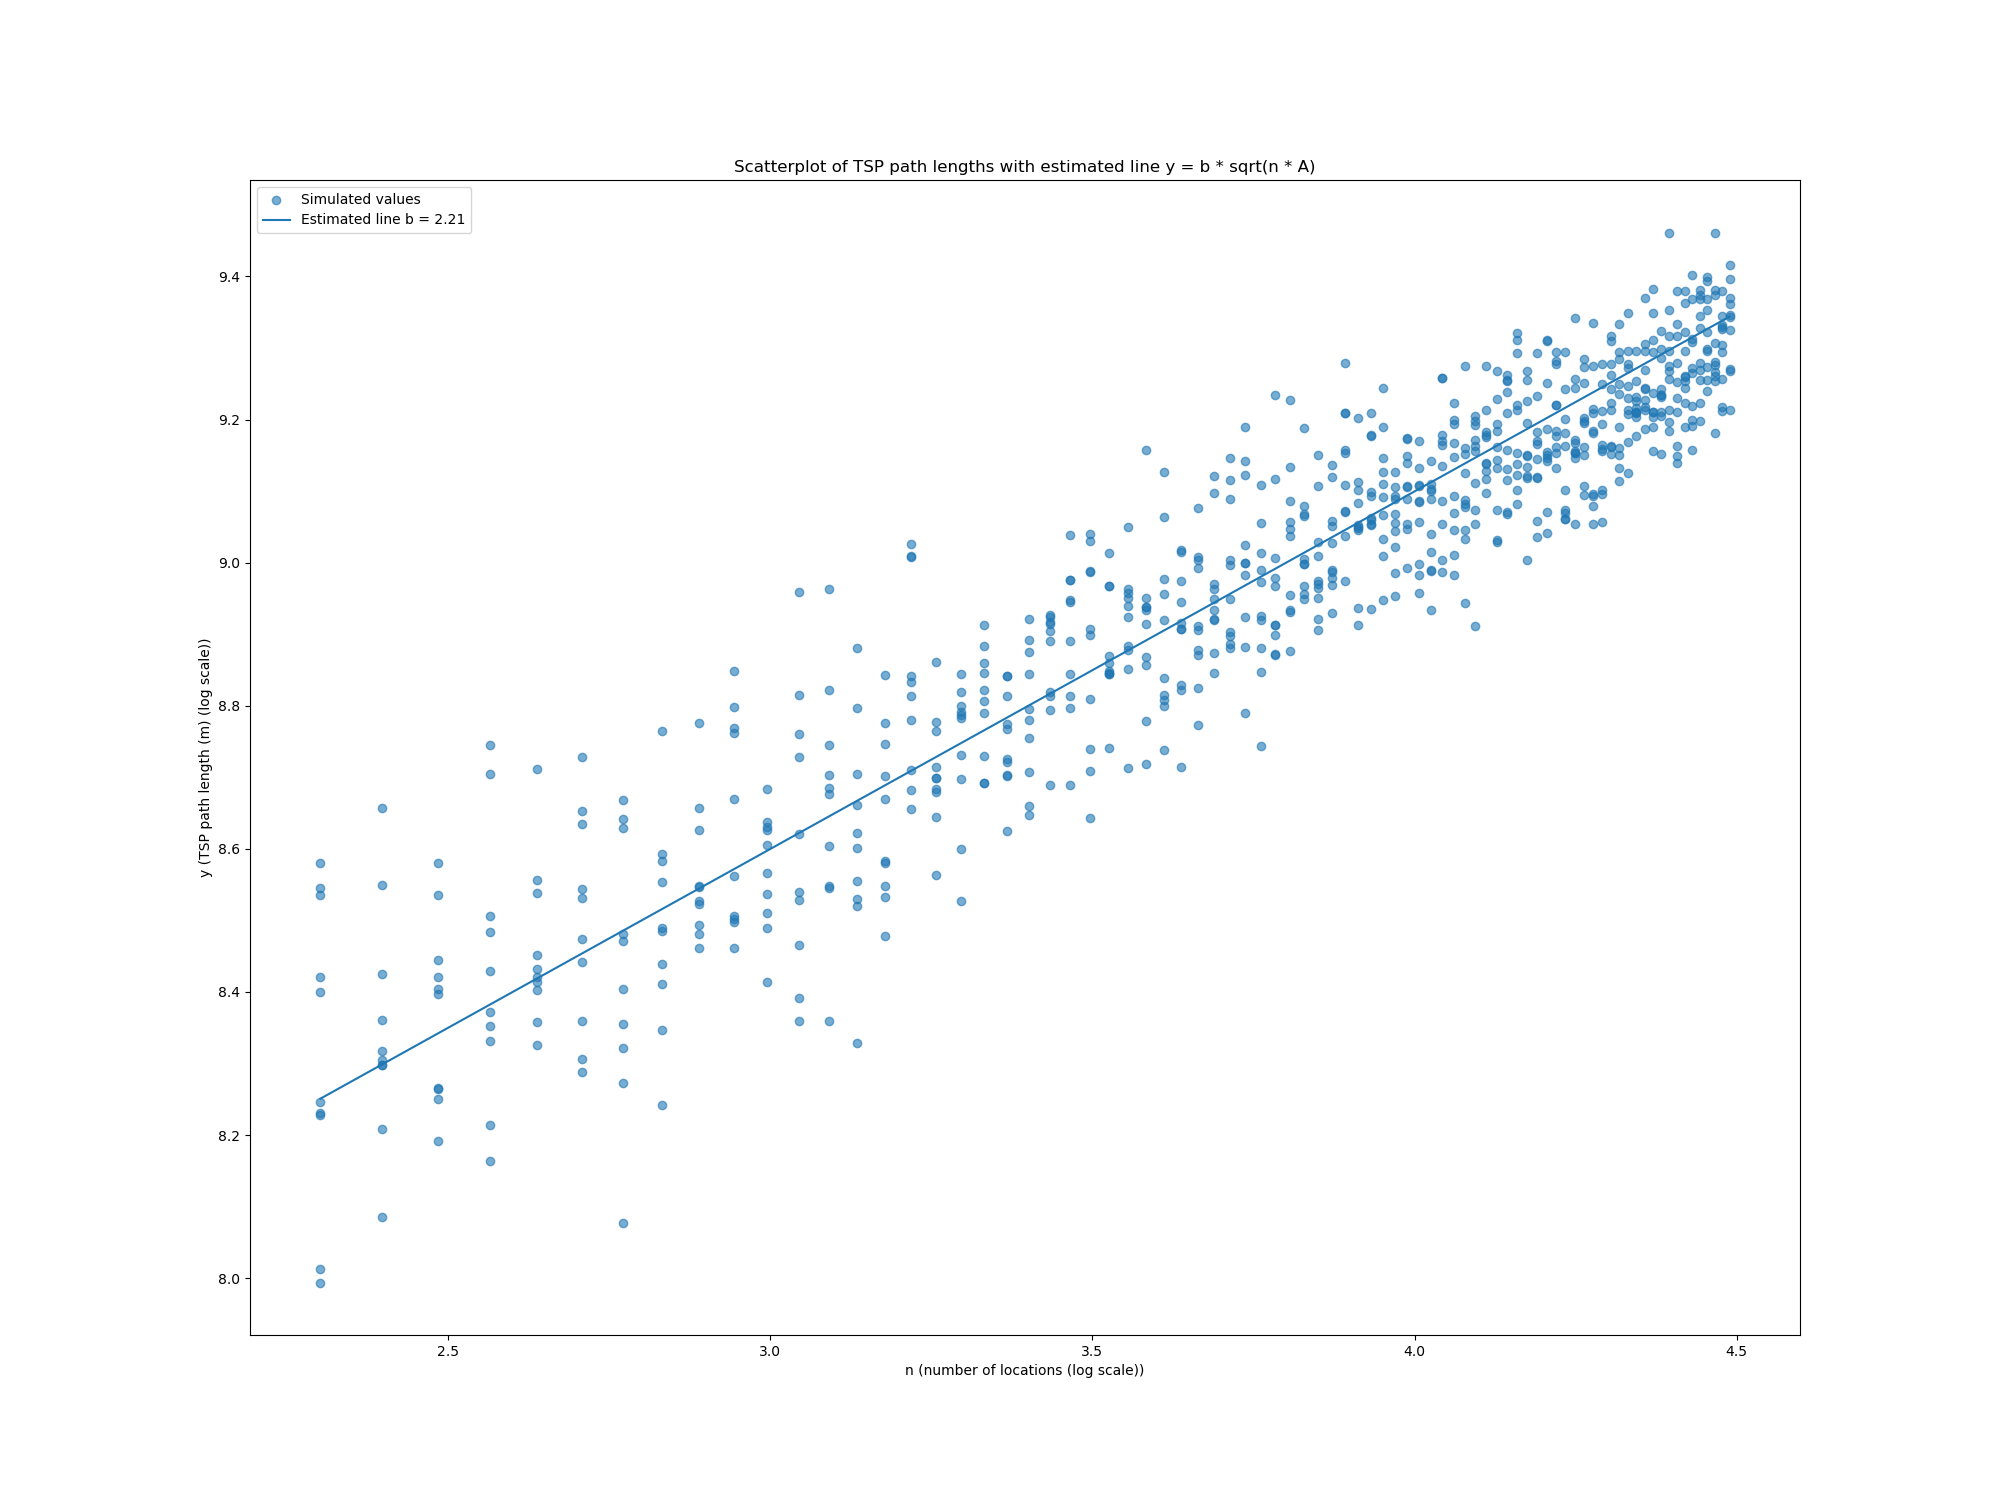
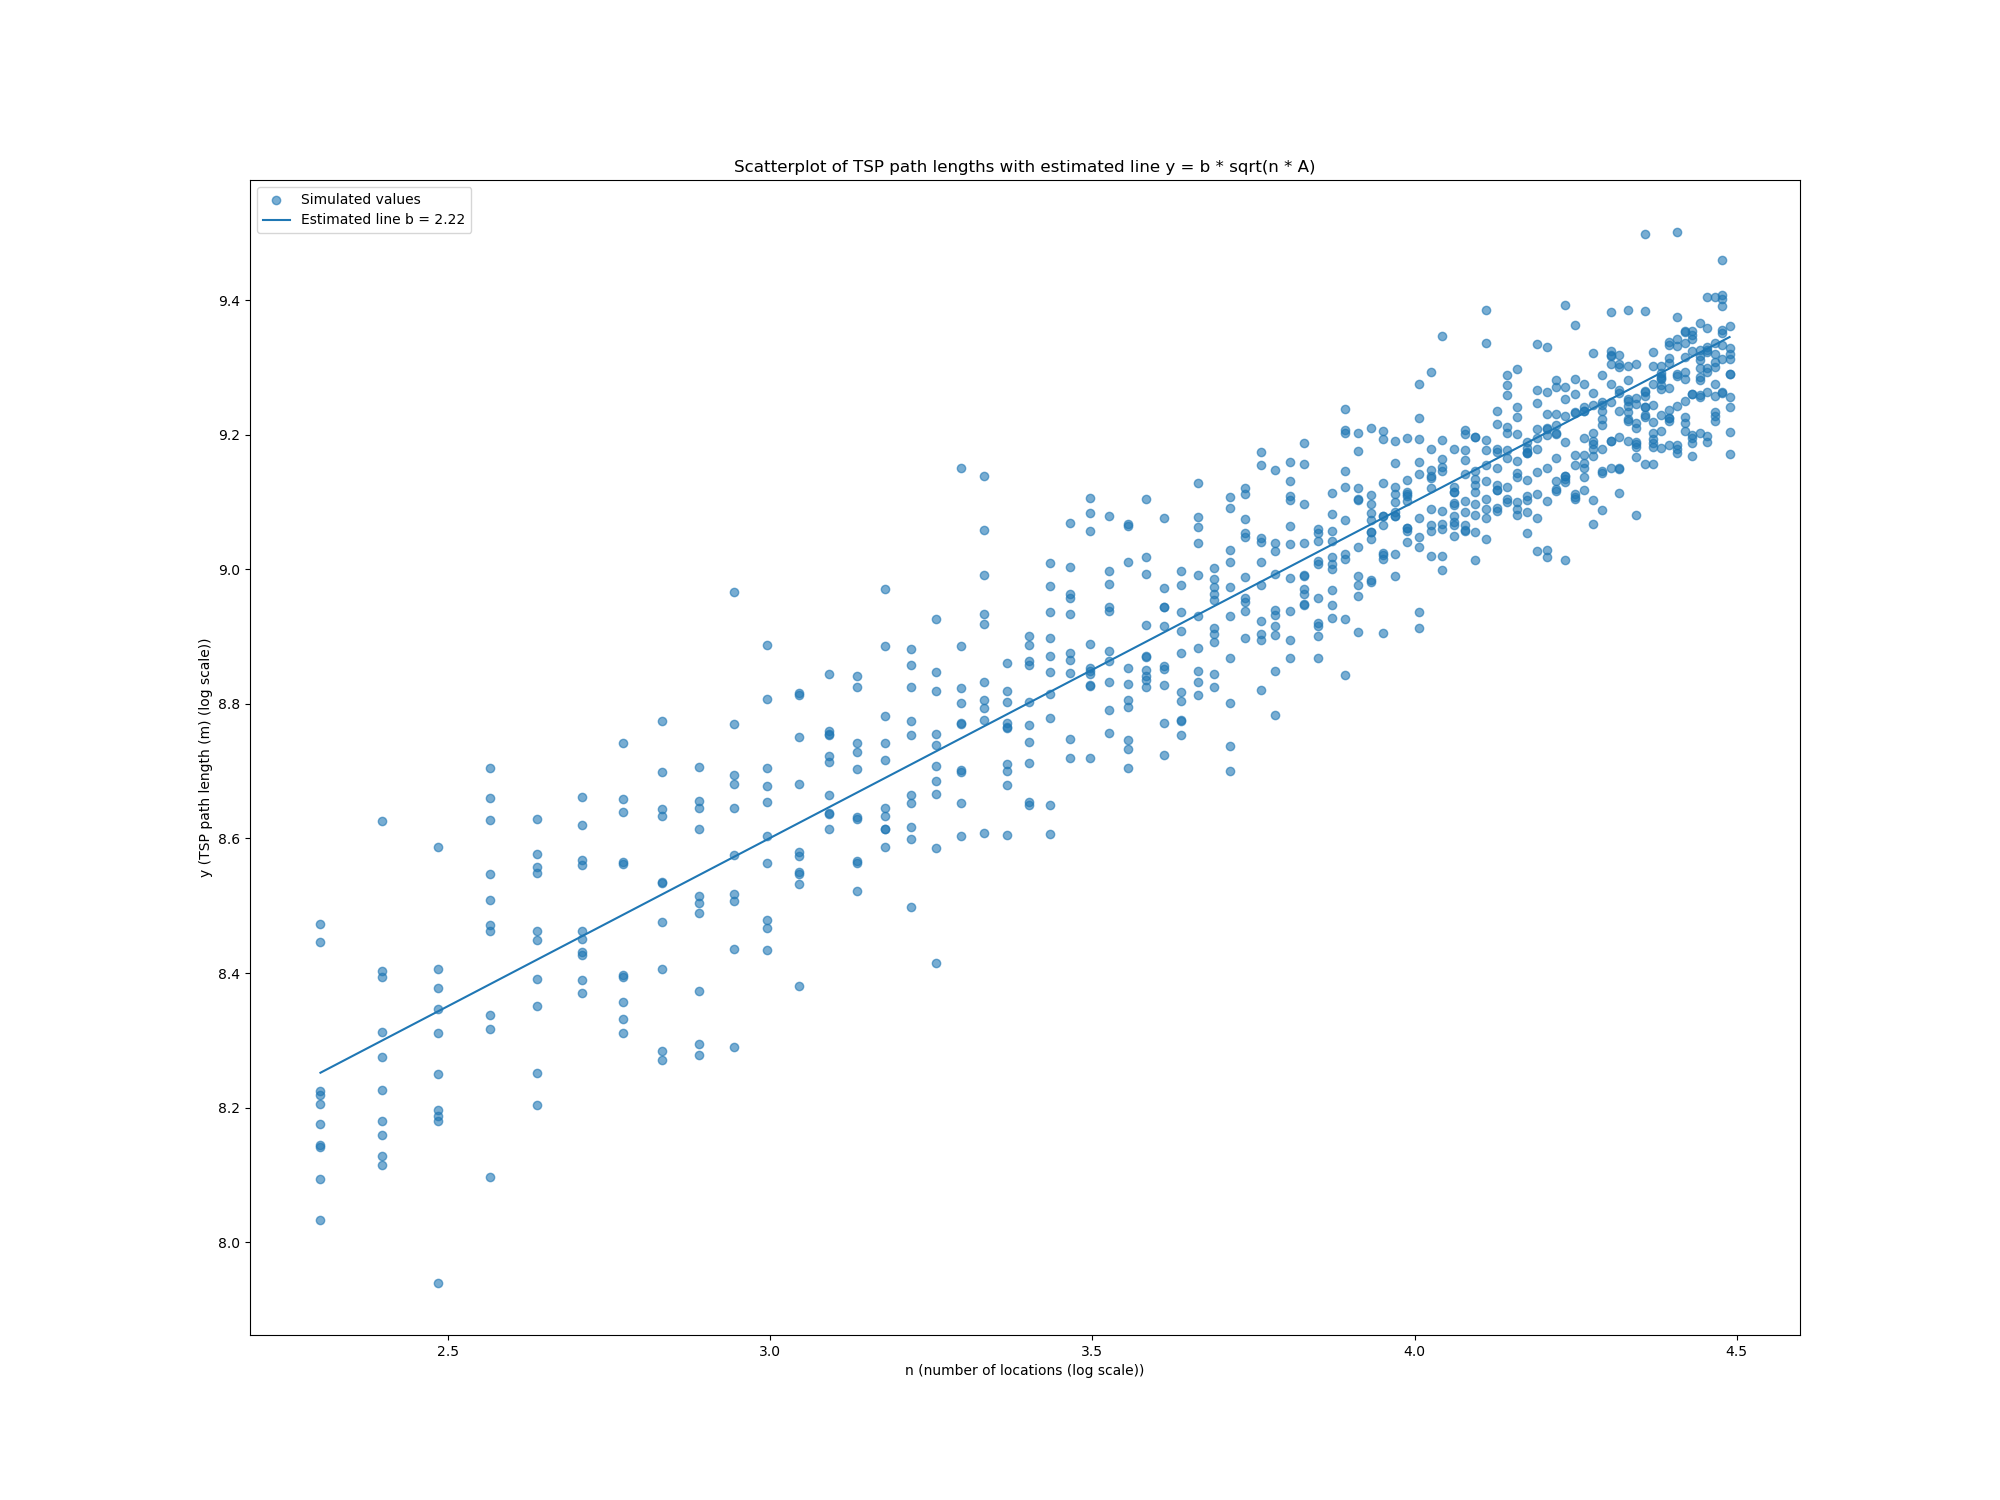
work in tex

diff --git a/project/main.py b/project/main.py
@@ -97,18 +97,17 @@ for DB, neighborhoods in areas.items():
         print(f"beta for {DB} {neighborhood} is: {b}")
         print(f"MAE for {DB} {neighborhood} is: {MAE}")
 
-with open("beta_values.org", "w") as f:
-    f.write("#+LATEX: \\begin{table}[htbp]\n")
-    f.write("#+LATEX: \\centering\n")
-    f.write("#+CAPTION: Empirical estimates for $\\beta$, for the selected areas.\n")
-    f.write("#+LABEL: tab:results\n")
-    f.write("| Province      | Neighborhood         | Beta      | MAE      |\n")
-    f.write("|---------------+----------------------+-----------+----------|\n")
+with open("beta_values.tex", "w") as f:
+    f.write("\\begin{tabular}{llcc}\n")
+    f.write("\\toprule\n")
+    f.write("Province & Neighborhood & $\\beta$ & MAE \\\\\n")
+    f.write("\\midrule\n")
 
     for key, values in final_results.items():
         db, neighborhood = key.split("-", 1)
         neighborhood = neighborhood.replace("_", " ")
         db = db.replace("_", " ")
-        f.write(
-            f"| {db:<13} | {neighborhood:<20} | {values[0]:.4f} | {values[1]:.4f} |\n"
-        )
+        f.write(f"{db} & {neighborhood} & {values[0]:.4f} & {values[1]:.4f} \\\\\n")
+
+    f.write("\\bottomrule\n")
+    f.write("\\end{tabular}\n")

diff --git a/project/run_simulation.py b/project/run_simulation.py
@@ -26,7 +26,7 @@ def run_simulation(DB, neighborhood):
     print(
         f"Graph has {len(graph.vs)} vertices and {len(graph.es)} edges. It contains {len(graph.components())} component(s)."
     )
-    create_tsps(graph, 10, range(10, 90, 1), 100, "Any", f"tsps_{DB}_{neighborhood}")
+    create_tsps(graph, 50, range(20, 90, 1), 100, "Any", f"tsps_{DB}_{neighborhood}")
     parrallel_solve_tsps(19, f"tsps_{DB}_{neighborhood}")
     tours, distances = read_tours(f"tsps_{DB}_{neighborhood}")
     area = get_area(buildings)

diff --git a/report/thesis.tex b/report/thesis.tex
@@ -206,4 +206,10 @@ much more effective. It is able to find optimal solutions to large instances in 
 \bibliography{literature}
 \bibliographystyle{rug-econometrics}
 \section{Appendix}
+\begin{table}[H]
+	\centering
+	\caption{Empirical estimates for $\\beta$ in selected neighborhoods.}
+	\label{tab:results}
+	\input{../project/beta_values.tex}
+\end{table}
 \end{document}

diff --git a/project/beta_values.tex b/project/beta_values.tex
@@ -1,0 +1,10 @@
+\begin{tabular}{llcc}
+	\toprule
+	Province      & Neighborhood   & $\beta$ & MAE    \\
+	\midrule
+	groningen     & Hortusbuurt    & 2.2161  & 0.0814 \\
+	groningen     & Binnenstad     & 2.0493  & 0.0814 \\
+	noord holland & Grachtengordel & 1.7854  & 0.0589 \\
+	noord holland & Oud-Zuid       & 1.4386  & 0.0673 \\
+	\bottomrule
+\end{tabular}
